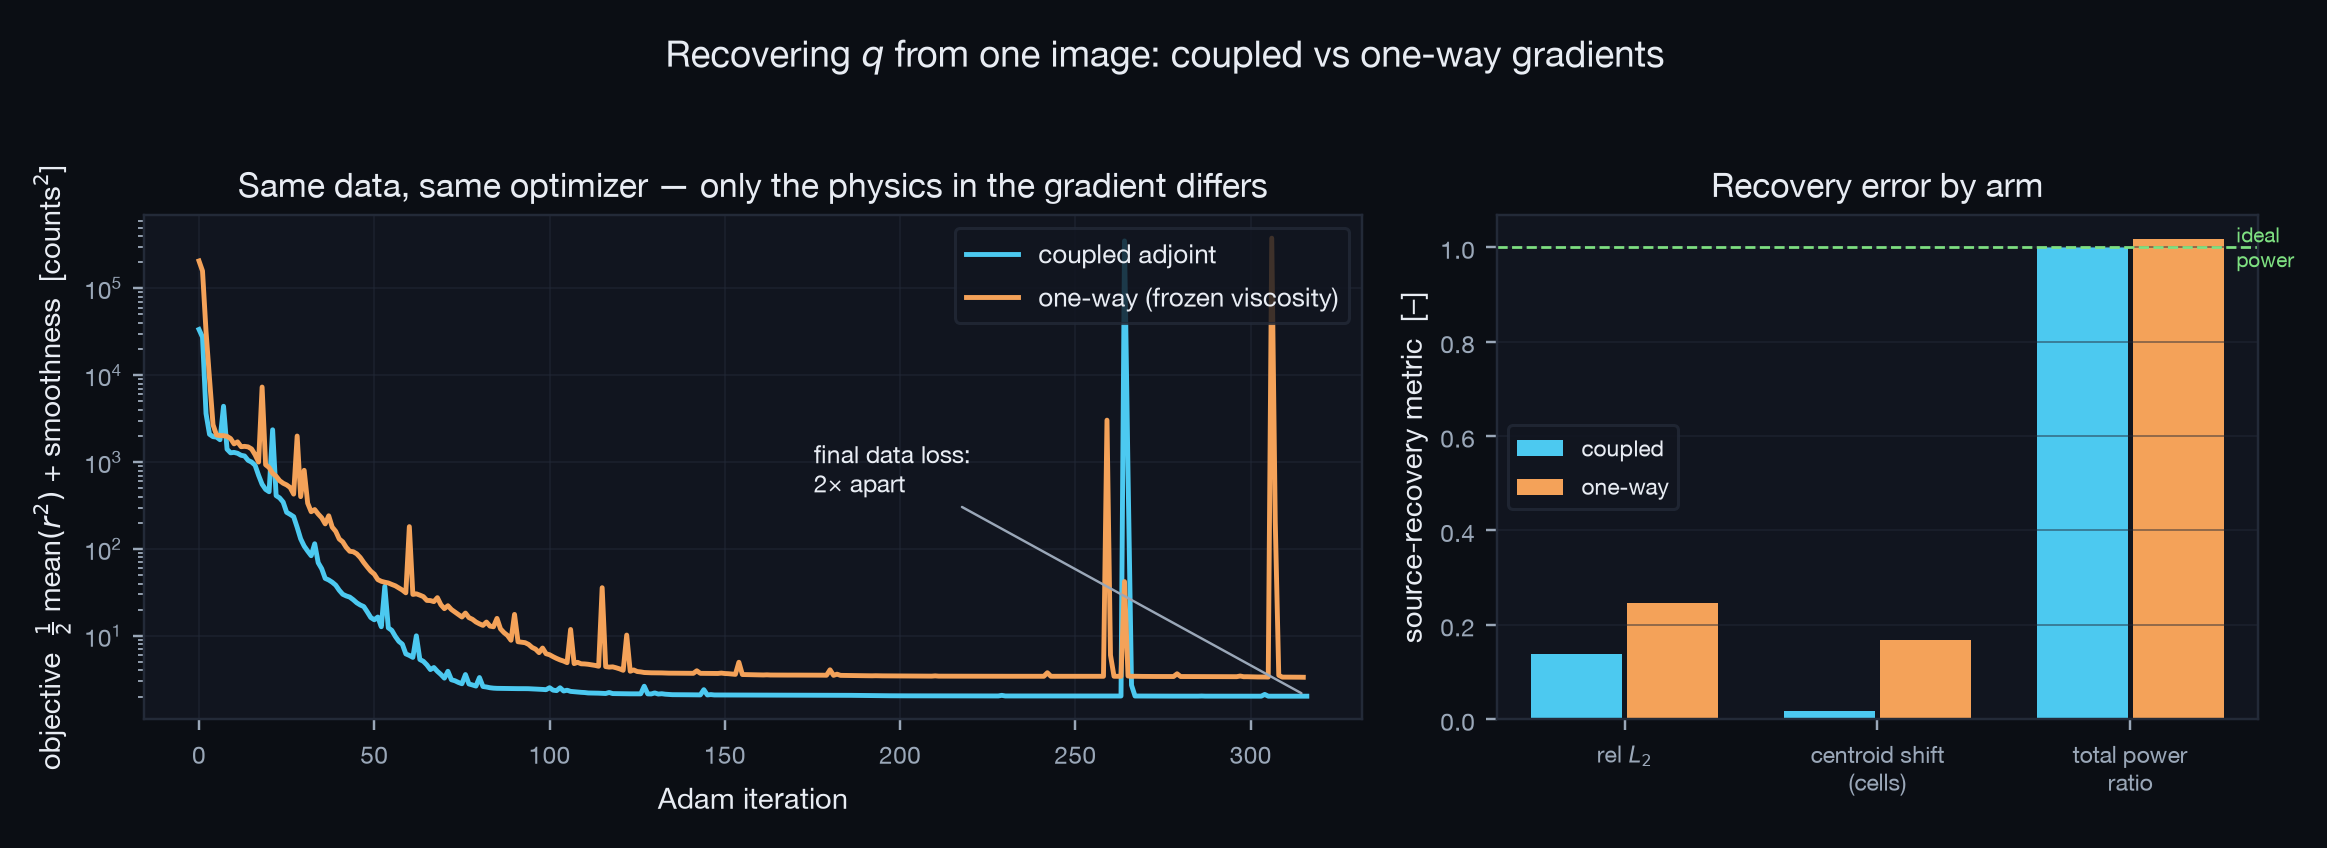
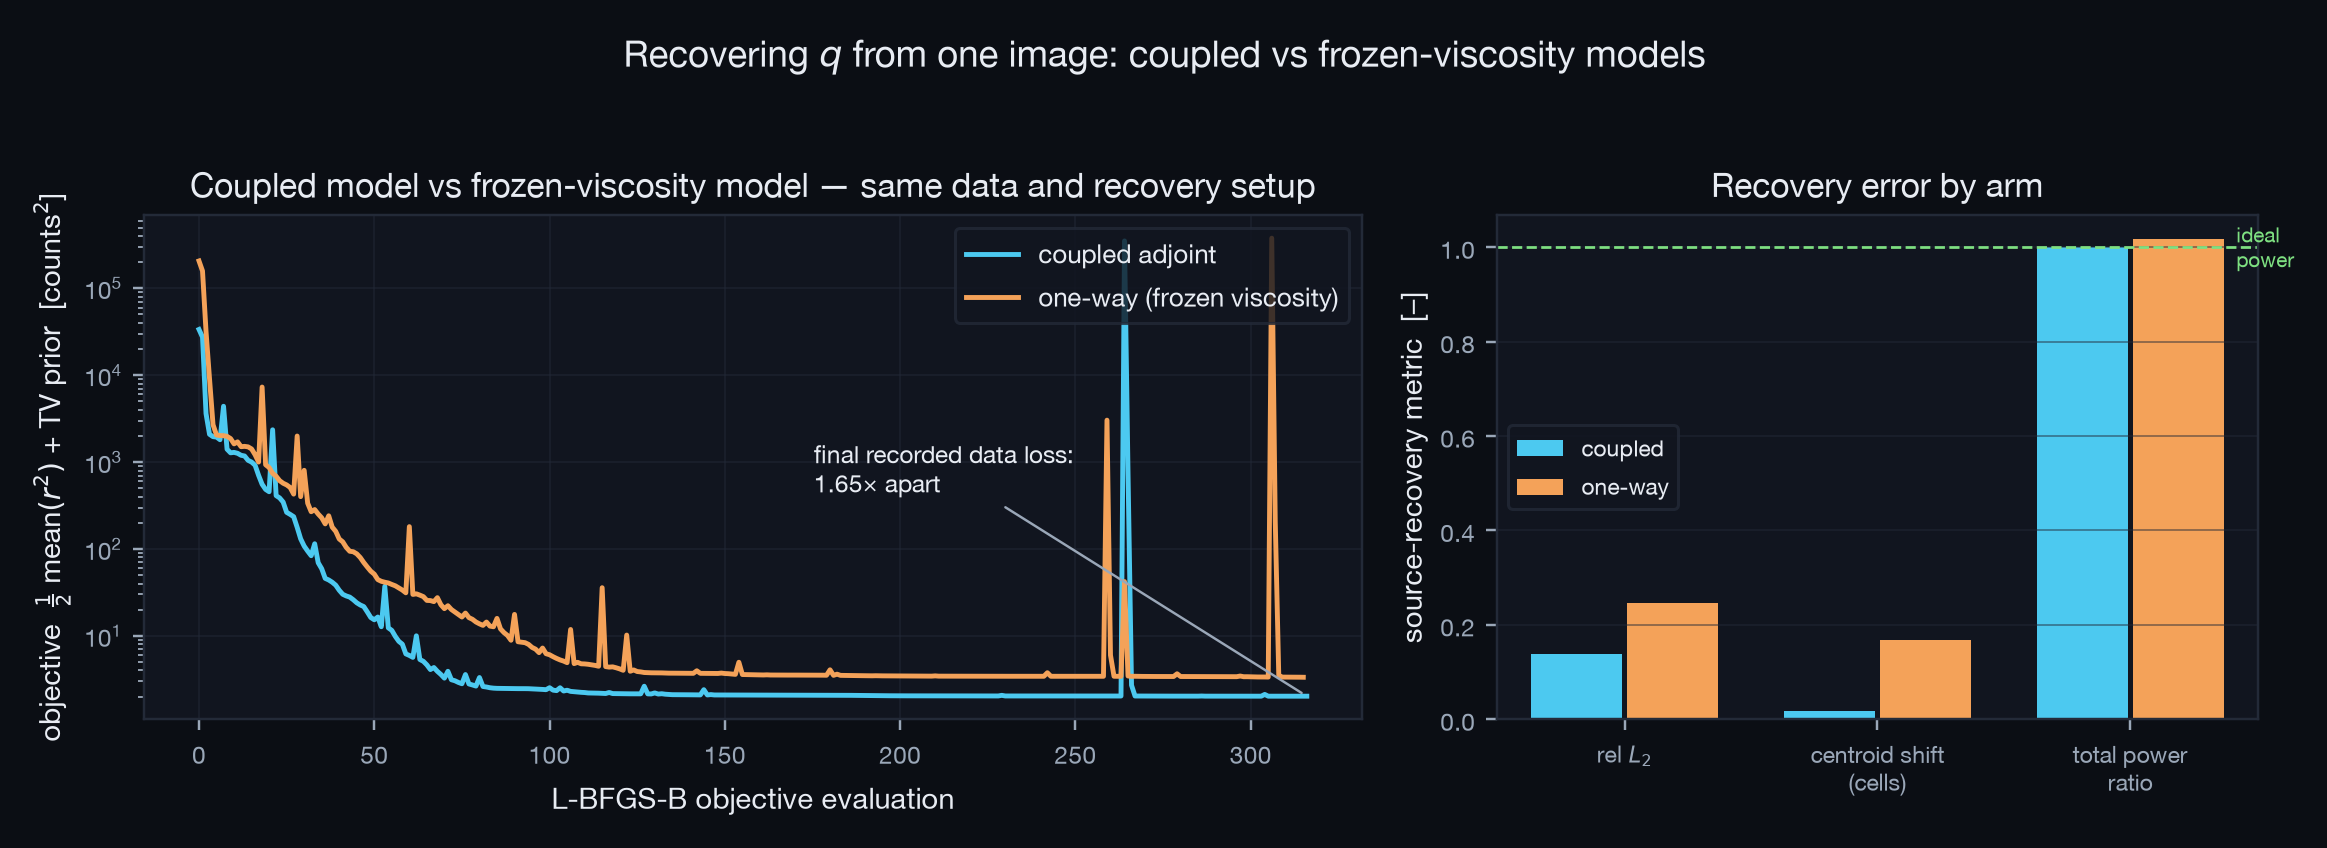
fix(evidence): align claims with recorded experiment

diff --git a/docs/index.html b/docs/index.html
@@ -77,9 +77,9 @@
     <div class="card"><div class="big">3.6e-07</div>
       <div class="lbl">end-to-end gradient vs finite differences (pixels &rarr; q), verdict PASS</div></div>
     <div class="card"><div class="big">2220</div>
-      <div class="lbl">adjoint GMRES matvecs across 250 iterations — each one a VJP chain over three containers</div></div>
-    <div class="card"><div class="big">2&times;</div>
-      <div class="lbl">final image-space loss gap: coupled adjoint vs frozen-viscosity gradient, same data</div></div>
+      <div class="lbl">adjoint GMRES matvecs across 317 objective evaluations — each one a VJP chain over three components</div></div>
+    <div class="card"><div class="big">1.65&times;</div>
+      <div class="lbl">final recorded image-space loss gap: coupled vs frozen-viscosity model, same recovery budget</div></div>
     <div class="card"><div class="big">4</div>
       <div class="lbl">Tesseracts: Fortran Darcy flow, PyTorch viscosity closure, JAX heat transport, JAX thermal camera</div></div>
   </div>
@@ -89,14 +89,15 @@
      Fortran Darcy solver with a pen-and-paper adjoint, and a JAX heat-transport model.
      The camera renders that equilibrium to counts. Differentiating the composition uses
      only each component's VJP endpoint: GMRES solves the adjoint system matrix-free, one
-     three-container VJP chain per matvec, then one heat-transport VJP lands the gradient
-     on q.</p>
+     three-component VJP chain per matvec, then one heat-transport VJP lands the gradient
+     on q. The checked-in results use Tesseract's in-process API mode; they do not claim
+     served-container verification.</p>
   <figure><img src="assets/chain.png" alt="Differentiable chain diagram"></figure>
 
   <h2 id="results">Results: the coupling is load-bearing</h2>
-  <p>Two recoveries, identical data, identical optimizer. The only difference is whether
-     the gradient respects the two-way viscosity&ndash;flow&ndash;temperature coupling or
-     freezes it (the standard one-way approximation).</p>
+  <p>Two recoveries share data, prior, optimizer, and budget. The second uses a
+     deliberately simplified frozen-viscosity forward model and its matching derivative;
+     the comparison therefore measures model mismatch, not a gradient-only intervention.</p>
   <table>
     <tr><th>metric</th><th style="text-align:right">coupled adjoint</th><th style="text-align:right">one-way</th></tr>
     <tr><td>relative L<sub>2</sub> error of q&#770;</td><td class='num c'>0.137</td><td class='num o'>0.246</td></tr><tr><td>peak amplitude ratio (1 = ideal)</td><td class='num c'>1.115</td><td class='num o'>1.098</td></tr><tr><td>centroid shift [cells]</td><td class='num c'>0.02</td><td class='num o'>0.17</td></tr><tr><td>total recovered power ratio (1 = ideal)</td><td class='num c'>1.000</td><td class='num o'>1.017</td></tr><tr><td>final data loss [counts&sup2;]</td><td class='num c'>2.02</td><td class='num o'>3.34</td></tr><tr><td>adjoint GMRES matvecs</td><td class='num c'>2220</td><td class='num o'>0</td></tr>
@@ -104,7 +105,8 @@
   <p class="note">Grid 32&times;16 plate, 96&times;64
      sensor, &sigma;<sub>noise</sub> = 2.0 counts, seeds pinned; protocol committed
      before the run (writeup/PROTOCOL.md). Declared criterion: coupled rel_l2 < 0.5 and centroid shift < 1.5 cells (PROTOCOL.md Amendment v2, declared before this run) —
-     met: True.</p>
+     met: True. Both arms reached the declared 250-iteration
+     limit, so the table reports budget-matched endpoints rather than convergence floors.</p>
   <figure><img src="assets/recovery_convergence.png" alt="Convergence, coupled vs one-way"></figure>
   <img src="assets/recovery.gif" alt="Recovery animation" loading="lazy">
 

diff --git a/scripts/make_landing.py b/scripts/make_landing.py
@@ -155,9 +155,9 @@ def main() -> None:
     <div class="card"><div class="big">{g['best_rel_err']:.1e}</div>
       <div class="lbl">end-to-end gradient vs finite differences (pixels &rarr; q), verdict {g['verdict']}</div></div>
     <div class="card"><div class="big">{rc['adjoint_matvecs_total']}</div>
-      <div class="lbl">adjoint GMRES matvecs across {b['iters']} iterations — each one a VJP chain over three containers</div></div>
-    <div class="card"><div class="big">{loss_gap:,.0f}&times;</div>
-      <div class="lbl">final image-space loss gap: coupled adjoint vs frozen-viscosity gradient, same data</div></div>
+      <div class="lbl">adjoint GMRES matvecs across {b['optimizer']['coupled']['nfev']} objective evaluations — each one a VJP chain over three components</div></div>
+    <div class="card"><div class="big">{loss_gap:,.2f}&times;</div>
+      <div class="lbl">final recorded image-space loss gap: coupled vs frozen-viscosity model, same recovery budget</div></div>
     <div class="card"><div class="big">4</div>
       <div class="lbl">Tesseracts: Fortran Darcy flow, PyTorch viscosity closure, JAX heat transport, JAX thermal camera</div></div>
   </div>
@@ -167,14 +167,15 @@ def main() -> None:
      Fortran Darcy solver with a pen-and-paper adjoint, and a JAX heat-transport model.
      The camera renders that equilibrium to counts. Differentiating the composition uses
      only each component's VJP endpoint: GMRES solves the adjoint system matrix-free, one
-     three-container VJP chain per matvec, then one heat-transport VJP lands the gradient
-     on q.</p>
+     three-component VJP chain per matvec, then one heat-transport VJP lands the gradient
+     on q. The checked-in results use Tesseract's in-process API mode; they do not claim
+     served-container verification.</p>
   <figure><img src="assets/chain.png" alt="Differentiable chain diagram"></figure>
 
   <h2 id="results">Results: the coupling is load-bearing</h2>
-  <p>Two recoveries, identical data, identical optimizer. The only difference is whether
-     the gradient respects the two-way viscosity&ndash;flow&ndash;temperature coupling or
-     freezes it (the standard one-way approximation).</p>
+  <p>Two recoveries share data, prior, optimizer, and budget. The second uses a
+     deliberately simplified frozen-viscosity forward model and its matching derivative;
+     the comparison therefore measures model mismatch, not a gradient-only intervention.</p>
   <table>
     <tr><th>metric</th><th style="text-align:right">coupled adjoint</th><th style="text-align:right">one-way</th></tr>
     {rows}
@@ -182,7 +183,8 @@ def main() -> None:
   <p class="note">Grid {b['grid'][0]}&times;{b['grid'][1]} plate, {b['sensor'][0]}&times;{b['sensor'][1]}
      sensor, &sigma;<sub>noise</sub> = {b['noise_counts']} counts, seeds pinned; protocol committed
      before the run (writeup/PROTOCOL.md). Declared criterion: {b['success_criteria']['declared']} —
-     met: {b['success_criteria']['met']}.</p>
+     met: {b['success_criteria']['met']}. Both arms reached the declared 250-iteration
+     limit, so the table reports budget-matched endpoints rather than convergence floors.</p>
   <figure><img src="assets/recovery_convergence.png" alt="Convergence, coupled vs one-way"></figure>
   {gif_html}
 

diff --git a/scripts/make_figures.py b/scripts/make_figures.py
@@ -232,10 +232,10 @@ def make_chain(results, out: Path) -> None:
             weight="bold", ha="center", va="center")
 
     mv = results["results"]["coupled"]["adjoint_matvecs_total"]
-    iters = results["iters"]
+    evaluations = results["optimizer"]["coupled"]["nfev"]
     ax.text(39, 0.6,
-            f"{mv} adjoint matvecs over {iters} optimizer iterations "
-            f"(≈{mv / iters:.1f} per gradient) · no framework ever traces the whole chain",
+            f"{mv} adjoint matvecs over {evaluations} objective evaluations "
+            f"(≈{mv / evaluations:.1f} per gradient) · no framework ever traces the whole chain",
             ha="center", fontsize=7.6, color=MUTED)
     ax.set_title("The gradient no single AD framework can trace", fontsize=12.5, pad=14)
     fig.savefig(out)
@@ -255,16 +255,16 @@ def make_convergence(fields, results, out: Path) -> None:
                                    gridspec_kw={"width_ratios": [1.6, 1]})
     ax1.semilogy(hc, color=ACCENT, lw=1.6, label="coupled adjoint")
     ax1.semilogy(ho, color=ACCENT2, lw=1.6, label="one-way (frozen viscosity)")
-    ax1.set_xlabel("Adam iteration")
-    ax1.set_ylabel("objective  $\\frac{1}{2}$ mean$(r^2)$ + smoothness  [counts$^2$]")
+    ax1.set_xlabel("L-BFGS-B objective evaluation")
+    ax1.set_ylabel("objective  $\\frac{1}{2}$ mean$(r^2)$ + TV prior  [counts$^2$]")
     ax1.grid(True, alpha=0.5)
     ax1.legend(loc="upper right")
     gap = ro["final_data_loss"] / rc["final_data_loss"]
-    ax1.annotate(f"final data loss:\n{gap:.0f}× apart",
+    ax1.annotate(f"final recorded data loss:\n{gap:.2f}× apart",
                  xy=(len(hc) - 1, hc[-1]), xytext=(0.55, 0.45),
                  textcoords="axes fraction", fontsize=8, color=INK,
                  arrowprops=dict(arrowstyle="-", color=MUTED, lw=0.8))
-    ax1.set_title("Same data, same optimizer — only the physics in the gradient differs")
+    ax1.set_title("Coupled model vs frozen-viscosity model — same data and recovery setup")
 
     labels = ["rel $L_2$", "centroid shift\n(cells)", "total power\nratio"]
     cv = [rc["rel_l2"], rc["centroid_shift_cells"], rc["total_power_ratio"]]
@@ -279,7 +279,7 @@ def make_convergence(fields, results, out: Path) -> None:
     ax2.grid(True, axis="y", alpha=0.5)
     ax2.legend(fontsize=7.5)
     ax2.set_title("Recovery error by arm")
-    fig.suptitle("Recovering $q$ from one image: coupled vs one-way gradients",
+    fig.suptitle("Recovering $q$ from one image: coupled vs frozen-viscosity models",
                  fontsize=12, y=1.03)
     fig.tight_layout()
     fig.savefig(out)

diff --git a/scripts/submission_audit.py b/scripts/submission_audit.py
@@ -24,6 +24,13 @@ PLACEHOLDER_RE = re.compile(
 )
 ABS_PATH_RE = re.compile(r"/Users/[A-Za-z0-9_.-]+/")
 BANNED_PHRASES = ("companion", "not a second form submission")
+FALSE_CLAIMS = (
+    "only the gradient changed",
+    "only the physics in the gradient differs",
+    "converged data loss",
+    "a converged fit",
+    "model-mismatch floor",
+)
 
 
 def _doc_files() -> list[Path]:
@@ -62,6 +69,19 @@ def main() -> None:
     if artifact.get("verdict") != "PASS" or artifact.get("best_rel_err", 1.0) >= 1e-4:
         errors.append("stored end-to-end gradient artifact does not pass the declared gate")
 
+    # Experiment metadata is the authority for optimizer and stopping claims.
+    b2_path = ROOT / "figures/experiment_b_v2.json"
+    if not b2_path.is_file():
+        errors.append("missing required file: figures/experiment_b_v2.json")
+        b2 = {}
+    else:
+        b2 = json.loads(b2_path.read_text())
+        if b2.get("optimizer", {}).get("method") != "L-BFGS-B":
+            errors.append("experiment B v2 optimizer is not L-BFGS-B")
+        for arm in ("coupled", "one_way"):
+            if arm not in b2.get("optimizer", {}):
+                errors.append(f"experiment B v2 missing optimizer metadata for {arm}")
+
     # Camera suite depth.
     tree = ast.parse((ROOT / "tests/test_camera.py").read_text())
     tests = [n for n in tree.body if isinstance(n, ast.FunctionDef) and n.name.startswith("test_")]
@@ -89,6 +109,9 @@ def main() -> None:
         for banned in BANNED_PHRASES:
             if banned.lower() in text.lower():
                 errors.append(f"{rel}: contains retired framing: {banned!r}")
+        for false_claim in FALSE_CLAIMS:
+            if false_claim.lower() in text.lower():
+                errors.append(f"{rel}: contains claim contradicted by artifacts: {false_claim!r}")
         n_placeholders = len(PLACEHOLDER_RE.findall(text))
         if n_placeholders:
             errors.append(f"{rel}: {n_placeholders} unresolved result placeholder(s)")
@@ -98,6 +121,11 @@ def main() -> None:
             ref = ROOT / fig_ref
             if not (ref.is_file() or ref.is_dir()):
                 errors.append(f"{rel}: references missing artifact: {fig_ref}")
+
+    figure_source = (ROOT / "scripts/make_figures.py").read_text()
+    for stale_label in ("Adam iteration", "{gap:.0f}× apart"):
+        if stale_label in figure_source:
+            errors.append(f"make_figures.py contains stale label: {stale_label!r}")
 
     if errors:
         print("SUBMISSION AUDIT: FAIL")

diff --git a/README.md b/README.md
@@ -39,14 +39,17 @@ Four components, four independent differentiation systems, one gradient:
 
 ## Why Tesseract is essential
 
-The boundary crossings above are real, not decorative. A Fortran solver has no
+The component boundaries above are real, not decorative. A Fortran solver has no
 autodiff to expose; PyTorch and JAX tapes cannot see each other; and the
 coupled temperature field is defined implicitly by a fixed point, so no single
 framework's tape could record it even in principle. Tesseract's contract — each
 component publishes `apply` and `vector_jacobian_product` behind a typed
 interface — is what lets a matrix-free implicit-function-theorem adjoint treat
 a hand-written Fortran adjoint, two ML tapes, and a rendering VJP as
-interchangeable parts of one chain rule. Remove Tesseract and you do not get a
+interchangeable parts of one chain rule. The verified reproduction path uses
+Tesseract's in-process API mode; served-container verification is tracked
+separately and is not implied by the results below. Remove the Tesseract
+contract and you do not get a
 slower version of this system; you get four gradients that cannot be composed.
 The pixels→source derivative simply stops existing.
 
@@ -103,9 +106,10 @@ amended (recorded in `PROTOCOL.md` as Amendment v2) and rerun as v2:
 
 - Coupled arm: relative L2 error **0.1370** (pre-declared gate < 0.5: PASS),
   centroid shift **0.02 cells** (gate < 1.5: PASS), total-power ratio 1.000.
-- One-way arm: relative L2 error **0.2457** — 1.79x the coupled error, with a
-  converged data loss 65% above the noise floor (3.34 vs 2.02): the frozen
-  viscosity model cannot explain data generated by the coupled physics.
+- Frozen-viscosity arm: relative L2 error **0.2457** — 1.79x the coupled
+  error, with the final recorded data loss 65% above the noise floor (3.34 vs
+  2.02). Both L-BFGS-B runs reached their 250-iteration limit, so this is a
+  budget-matched endpoint, not a claimed convergence floor.
 - Numbers from `figures/experiment_b_v2.json`; run log in
   `figures/sweeps/experiment_b_v2_run.log`.
 
@@ -140,7 +144,8 @@ make experiment-a  # camera self-calibration
 make experiment-b-v2 # amended source recovery through the coupled equilibrium
 ```
 
-All host dependencies are exactly pinned in `requirements.txt`; each Tesseract
+`make judge` compiles the Fortran solver before running the gates. All host
+dependencies are exactly pinned in `requirements.txt`; each Tesseract
 carries its own pinned environment. `make judge` is the single command a judge
 needs: it audits the submission surface, runs every fast gate, and prints one
 verdict.

diff --git a/writeup/VIDEO_SCRIPT.md b/writeup/VIDEO_SCRIPT.md
@@ -51,7 +51,7 @@ arrows right to left. Overlay the two equations when the VO reaches them.
 > here is what actually runs. The camera's VJP pulls the loss back to the
 > temperature field. The implicit function theorem turns the fixed point
 > into a linear adjoint system, solved matrix-free with GMRES — every
-> matvec is a chain of three VJPs across three containers: JAX, Fortran,
+> matvec is a chain of three component VJPs: JAX, Fortran,
 > PyTorch. One final heat-transport VJP lands on q.
 > No framework ever sees the whole chain. Only VJPs cross the boundaries.
 > We checked the composition against finite differences end to end:
@@ -82,12 +82,15 @@ through renderer + coupled physics".
 **VO:**
 > Does the multiphysics actually matter? We ran the identical recovery a
 > second time with the industry-standard shortcut: viscosity frozen, one-way
-> physics — same data, same optimizer, only the gradient changed.
-> The coupled adjoint reaches the two-count noise floor; the one-way fit stays
+> physics — same data, prior, optimizer, and budget, but a deliberately
+> simplified forward model and its matching derivative.
+> The coupled arm reaches the two-count noise floor; the frozen-viscosity arm stays
 > 65 percent above it. It recovers the source with relative L-two error 0.1370
 > against 0.2457 one-way — 1.79 times worse — while ignoring the coupling
 > biases total recovered power 1.7 percent high.
-> The protocol, seeds, and success criteria were committed before the run —
+> Both runs reached their declared iteration limit, so these are honest
+> budget-matched endpoints, not convergence claims. The protocol, seeds, and
+> success criteria were committed before the run —
 > what you see is what the pre-registration produced.
 
 ## Shot 6 — Close (4:10–4:40)

diff --git a/writeup/PROTOCOL.md b/writeup/PROTOCOL.md
@@ -184,9 +184,10 @@ figures/experiment_b_v2_fields.npz, log figures/sweeps/experiment_b_v2_run.log):
 - coupled: rel_l2 0.1370, amplitude ratio 1.115, centroid shift 0.02 cells,
   total power ratio 1.000, final data loss 2.022 (noise floor 2.0) — the
   declared gate (rel_l2 < 0.5 AND centroid < 1.5) PASSES.
-- one-way: rel_l2 0.2457, amplitude ratio 1.098, centroid shift 0.17 cells,
-  final data loss 3.339 — converged, and still 1.79x worse in L2 with a
-  visible model-mismatch floor (its best fit is 65% above the noise floor on
-  data generated by the coupled physics).
+- frozen-viscosity: rel_l2 0.2457, amplitude ratio 1.098, centroid shift 0.17
+  cells, final recorded data loss 3.339 — 1.79x worse in L2 and 65% above the
+  noise floor at the matched budget. Both L-BFGS-B arms stopped at the declared
+  250-iteration limit (status 1), so this is not presented as a convergence
+  floor. The arm changes the forward model and its derivative together.
 - Gate G0 re-verified on the final configuration: best relative error
   3.611e-07, PASS (figures/e2e_gradient_check.json).

diff --git a/writeup/WRITEUP.md b/writeup/WRITEUP.md
@@ -145,10 +145,11 @@ data, seeds, and two-arm design are unchanged. Final numbers, from
 - Coupled arm: relative L2 error **0.1370**, amplitude ratio 1.115, final
   data loss 2.022 against a noise floor of 2.0.
 - Coupled centroid shift: **0.02 cells**.
-- One-way arm: relative L2 error **0.2457** (1.79x the coupled error),
-  centroid shift 0.17 cells, final data loss 3.339 — a converged fit that
-  stays 65% above the noise floor because its forward model is wrong for the
-  data.
+- Frozen-viscosity arm: relative L2 error **0.2457** (1.79x the coupled
+  error), centroid shift 0.17 cells, final recorded data loss 3.339, 65%
+  above the noise floor. Both arms reached the 250-iteration L-BFGS-B limit;
+  these are budget-matched endpoints, not claimed convergence floors. This
+  comparison changes the forward model and its derivative together.
 - Total-power ratio: coupled **1.000**, one-way 1.017.
 - Verdict: the amended pre-declared criteria (coupled rel L2 < 0.5 AND
   centroid shift < 1.5 cells) **PASS**; the end-to-end FD gradient gate was
